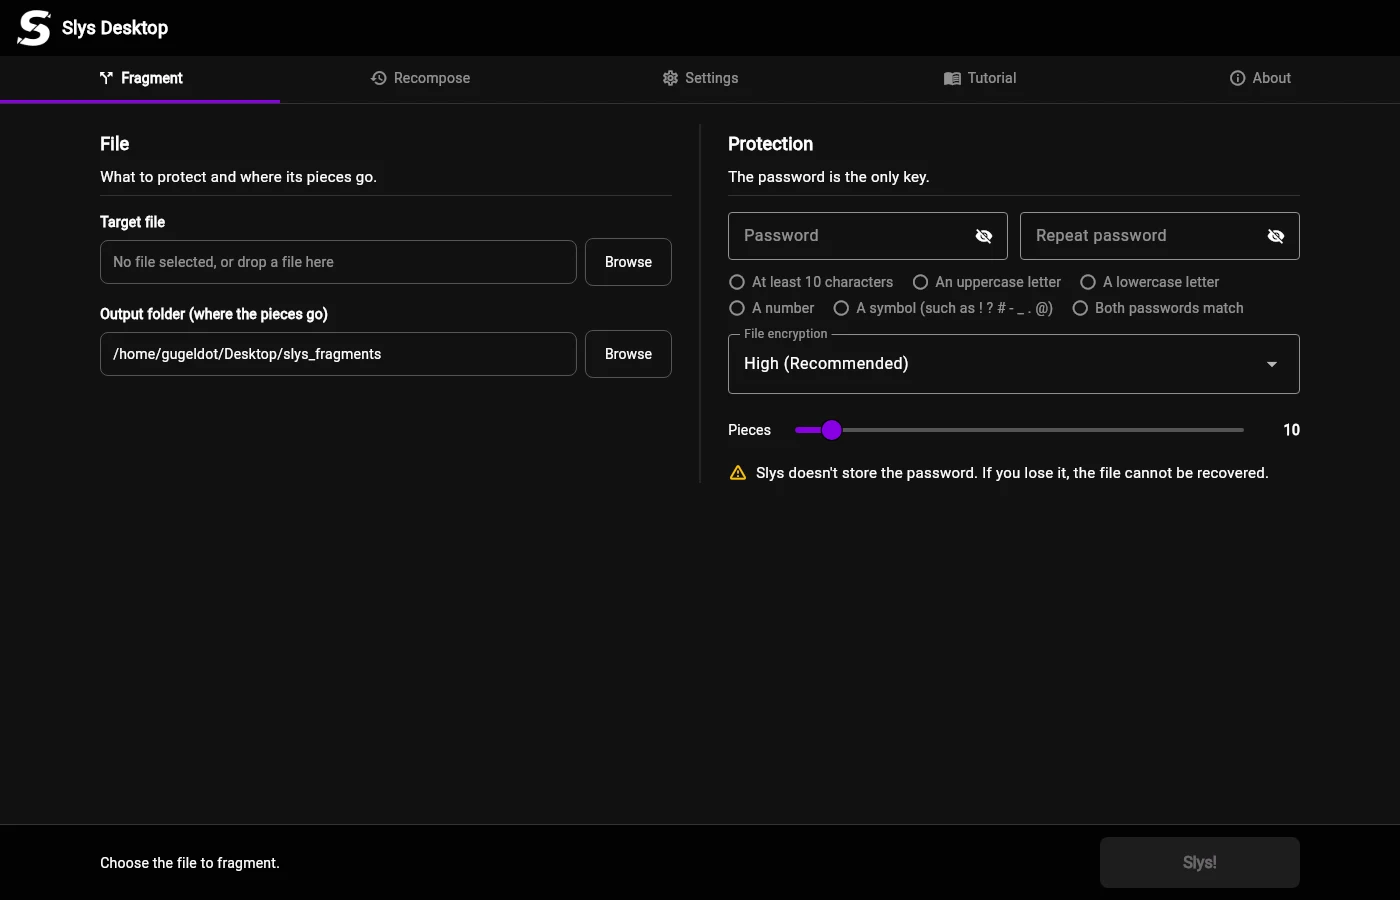
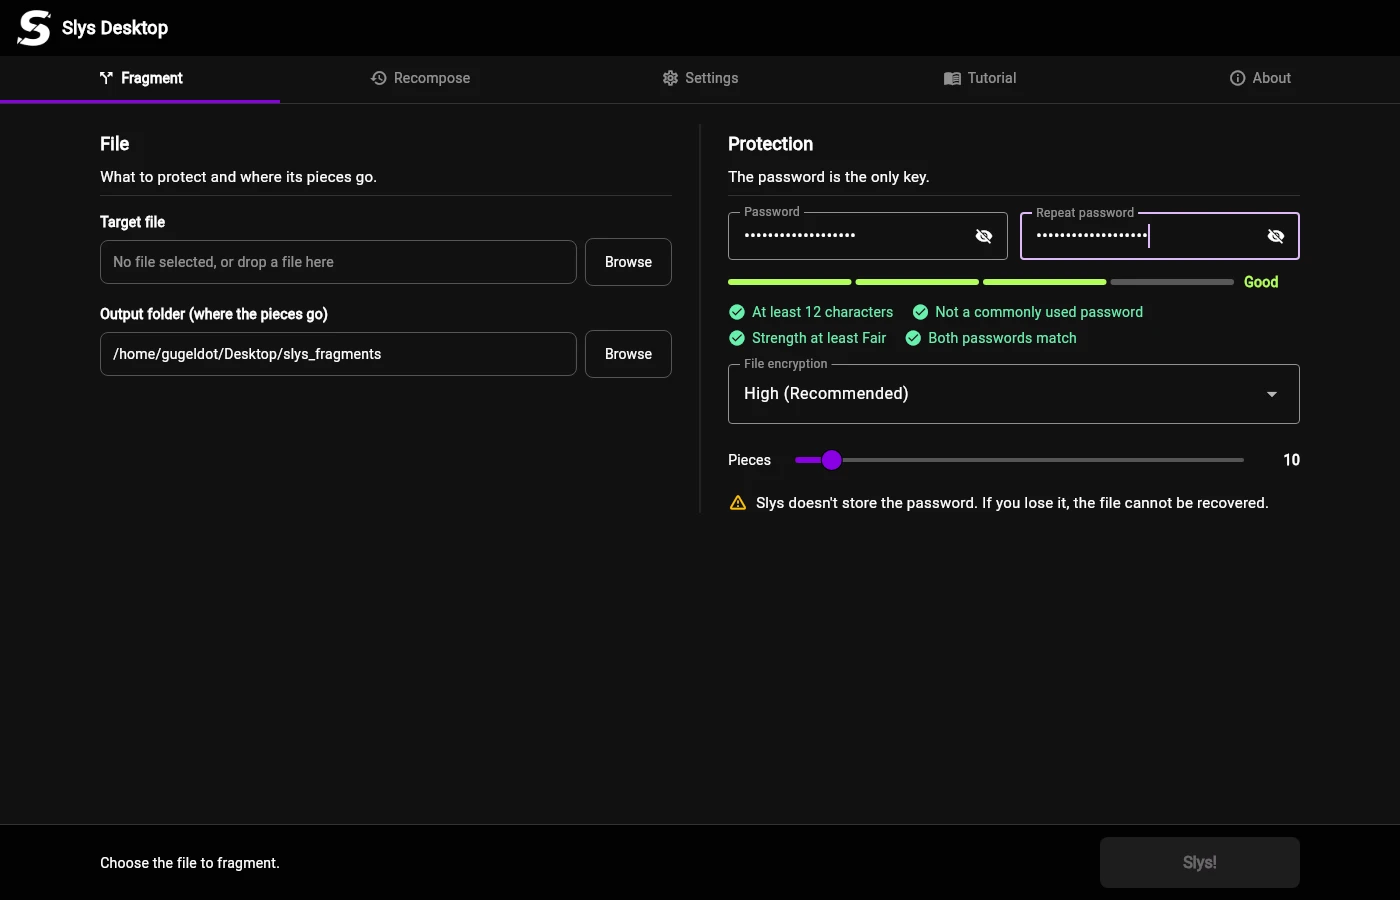
Website: 1.6.1 in the roadmap, new screenshots (strength meter, a saved seed, About 1.6.1)

Changed region(s): [[0.5221, 0.2178, 0.9214, 0.5911], [0.5221, 0.2178, 0.5836, 0.28]]

diff --git a/docs/index.html b/docs/index.html
@@ -226,13 +226,13 @@
       <ul class="track">
         <li class="slide" aria-label="1 of 5">
           <figure>
-            <a href="assets/img/shot-1.webp" data-lightbox aria-label="Enlarge screenshot 1"><img src="assets/img/shot-1.webp" width="1400" height="900"  decoding="async" alt="SLYS Desktop Fragment tab with target file, output folder, password fields with live requirements, encryption level High and a pieces slider set to 10"></a>
-            <figcaption>Fragment tab: pick the file, choose the pieces folder, set a password and see the requirements turn green.</figcaption>
+            <a href="assets/img/shot-1.webp" data-lightbox aria-label="Enlarge screenshot 1"><img src="assets/img/shot-1.webp" width="1400" height="900"  decoding="async" alt="SLYS Desktop Fragment tab with target file, output folder, password fields with a strength meter and live requirements, encryption level High and a pieces slider set to 10"></a>
+            <figcaption>Fragment tab: pick the file, choose the pieces folder, set a password and watch the strength meter and the requirements turn green.</figcaption>
           </figure>
         </li>
         <li class="slide" aria-label="2 of 5">
           <figure>
-            <a href="assets/img/shot-2.webp" data-lightbox aria-label="Enlarge screenshot 2"><img src="assets/img/shot-2.webp" width="1400" height="900" loading="lazy" decoding="async" alt="SLYS Desktop Recompose tab with the seeds list, password and the folder where the pieces are"></a>
+            <a href="assets/img/shot-2.webp" data-lightbox aria-label="Enlarge screenshot 2"><img src="assets/img/shot-2.webp" width="1400" height="900" loading="lazy" decoding="async" alt="SLYS Desktop Recompose tab with a saved seed selected, the folder where the pieces are and the password field"></a>
             <figcaption>Recompose tab: select the seed, enter the password and say where the pieces are.</figcaption>
           </figure>
         </li>
@@ -375,6 +375,7 @@
     <li class="done"><h3>1.0 <span class="badge">Released</span></h3><p>Stable basic version for Windows and Linux.</p></li>
     <li class="done"><h3>1.5 <span class="badge">Released</span></h3><p>"Settings" tab for personalized persistence: output and input paths, and color themes.</p></li>
     <li class="done"><h3>1.6 <span class="badge">Released</span></h3><ul><li>Open source (GPL-3.0), one program: the Rust core runs inside the app</li><li>New seed format with a checksum; AES-256-GCM and Argon2id</li><li>Inactivity wipe of the saved seeds (optional)</li><li>New responsive interface, Flatpak, command-line tool</li></ul></li>
+    <li class="done"><h3>1.6.1 <span class="badge">Released</span></h3><ul><li>Password check by length (12+), not by character classes</li><li>Strength meter</li><li>Commonly used passwords are refused (offline list)</li></ul></li>
     <li><h3>2.0 <span class="badge">Planned</span></h3><ul><li>Signed Windows builds</li><li>Flathub</li><li>macOS version</li><li>Android version</li></ul></li>
   </ol>
 </section>
